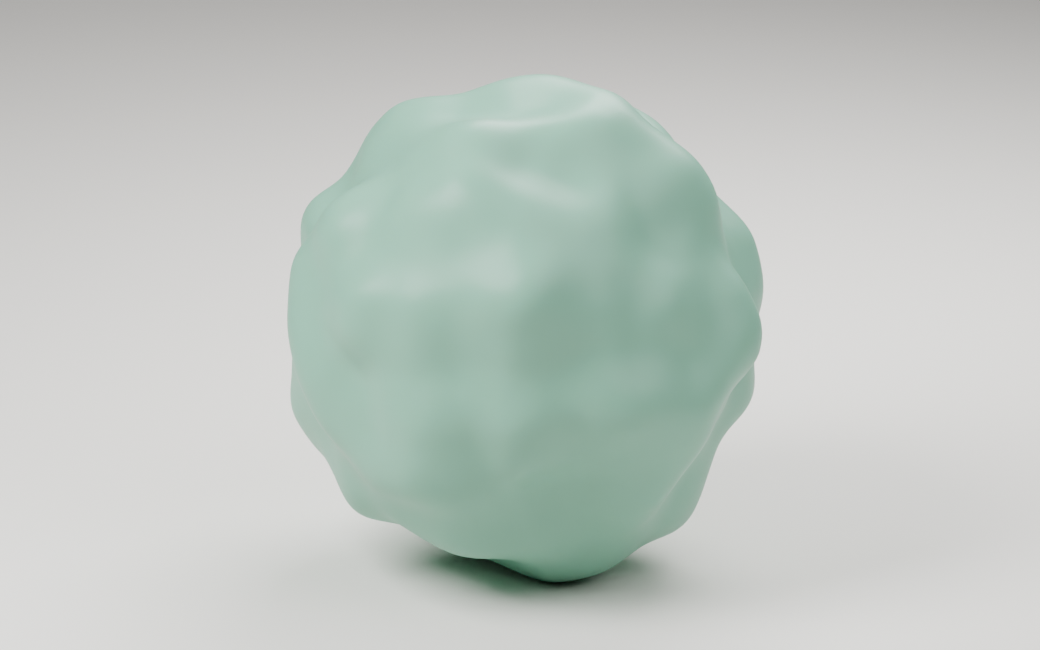
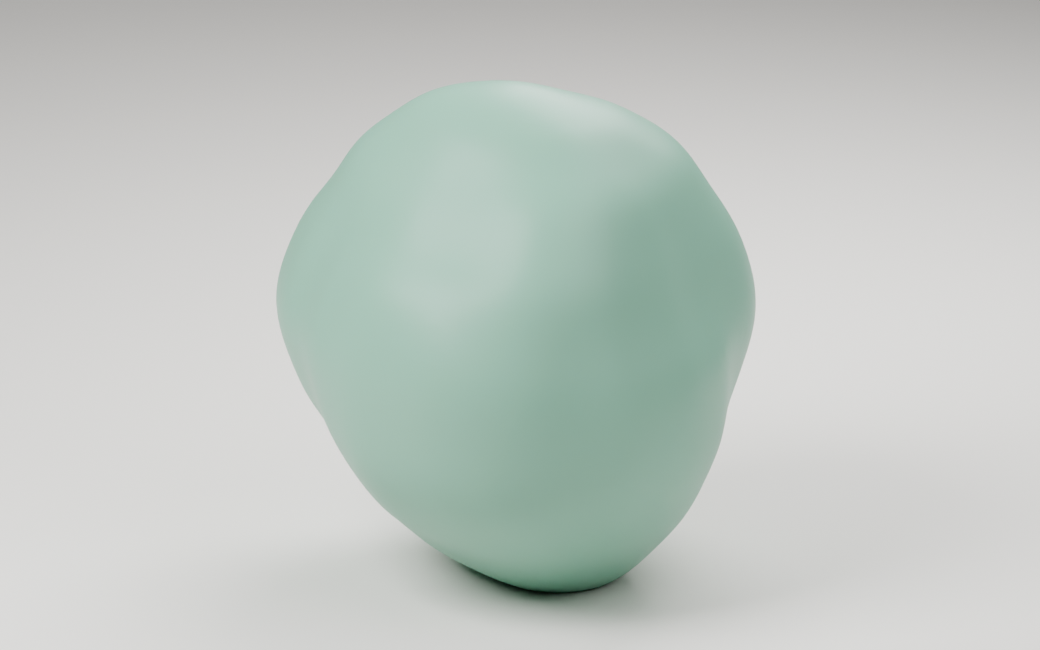
Show broad hand-formed pressure in the Bumpy Clay example

diff --git a/index.html b/index.html
@@ -8,7 +8,7 @@
 <h2>Adding or removing a part</h2><p>While editing the model, select an additional mesh and click <strong>Add Selected</strong>. Select an owned source and click <strong>Remove</strong> to detach it. To detach everything, use <strong>Restore Original Parts</strong> in Finish & Utilities.</p>
 <p>If Meld Selected Parts is gray, read the hint below it: the selection may already belong to a clay model, contain an eye, or be in Edit Mode. Use <strong>Edit Parts</strong> to change an existing model.</p><div class="next"><a href="#install">← Install & update</a><a href="#joins">Shape the joins →</a></div></article><article id="joins" hidden><span class="eyebrow">SHAPE & CHARACTER</span><h1>Join rules and Hold Shape</h1><figure><img src="assets/join-pressed.png" alt="A pressed haunch seam keeps two overlapping shapes readable." loading="lazy"><figcaption>A pressed haunch seam keeps two overlapping shapes readable.</figcaption></figure><h2>Edit one connection</h2><ol><li>Click <strong>Edit Parts</strong>.</li><li>Select one cage, then <kbd>Shift</kbd>-select the cage it touches.</li><li>Open <strong>Join Controls</strong> and click <strong>Edit Selected Join</strong>. These two selected parts determine the rule you edit.</li><li>Choose the style and adjust its settings. <strong>Hide Cages</strong> near the top clears your view; cages also pause automatically during crease edits and return after about 1.5 seconds.</li></ol><div class="table-scroll"><table><tr><th>Control</th><th>Use it for</th></tr><tr><td>Blended</td><td>A soft transition between overlapping parts.</td></tr><tr><td>Pressed</td><td>An indented seam, as though separate lumps were pressed together.</td></tr><tr><td>Crease strength</td><td>How pronounced the indentation is. Start small.</td></tr><tr><td>Crease width</td><td>How broadly the seam spreads around the contact.</td></tr><tr><td>Hold Shape</td><td>Preserve more of one part’s outline. This belongs to the part and can affect every contact involving it.</td></tr></table></div><h2>Different legs and head seams?</h2><p>Yes: select each pair and give it its own rule. A leg–body rule and head–body rule can have different settings. <strong>Hold Shape is shared by the part</strong>, and nearby seam influences can overlap on the same body. The controls do not create fully isolated patches of topology for each pair.</p>
 <h2>Copy a join you like</h2><ol><li>Edit the source join and click <strong>Copy Settings</strong>.</li><li>Select the destination pair and click <strong>Edit Selected Join</strong>.</li><li>Click <strong>Paste Settings</strong>.</li></ol><p>This transfers the join style and crease settings. Check the destination parts’ Hold Shape separately because it is a part setting.</p>
-<h2>Selection feels confusing?</h2><p>The selected pair and the highlighted list row can refer to different joins. <strong>Edit Selected Join</strong> follows your two selected cages. <strong>Edit Listed Join</strong> follows the highlighted rule. Removing a rule is not necessary to select another pair. Object identity, rather than the displayed name, identifies a part.</p><div class="next"><a href="#first-model">← Your first model</a><a href="#finishes">Clay finishes →</a></div></article><article id="finishes" hidden><span class="eyebrow">COLOR & SURFACE</span><h1>Material presets and finish controls</h1><p class="lead">Pick a preset under Clay Finish, then change its color, roughness and surface details. Presets are starting points, not locked looks.</p><div class="swatches"><figure><img src="assets/material-dough.png" alt="Soft Dough" loading="lazy"><figcaption>Soft Dough</figcaption></figure><figure><img src="assets/material-baked.png" alt="Smooth Baked" loading="lazy"><figcaption>Smooth Baked</figcaption></figure><figure><img src="assets/material-bumpy.png" alt="Bumpy Clay" loading="lazy"><figcaption>Bumpy Clay</figcaption></figure><figure><img src="assets/material-plasticine.png" alt="Plasticine" loading="lazy"><figcaption>Plasticine</figcaption></figure><figure><img src="assets/material-terracotta.png" alt="Terracotta" loading="lazy"><figcaption>Terracotta</figcaption></figure><figure><img src="assets/material-glazed.png" alt="Glazed Ceramic" loading="lazy"><figcaption>Glazed Ceramic</figcaption></figure><figure><img src="assets/material-translucent.png" alt="Translucent Clay" loading="lazy"><figcaption>Translucent Clay</figcaption></figure><figure><img src="assets/material-dirty.png" alt="Dirty Clay" loading="lazy"><figcaption>Dirty Clay</figcaption></figure><figure><img src="assets/material-cosmic.png" alt="Cosmic Clay" loading="lazy"><figcaption>Cosmic Clay</figcaption></figure><figure><img src="assets/material-bubblegum.png" alt="Bubble Gum" loading="lazy"><figcaption>Bubble Gum</figcaption></figure><figure><img src="assets/material-wet.png" alt="Wet Clay" loading="lazy"><figcaption>Wet Clay</figcaption></figure><figure><img src="assets/material-drought.png" alt="Dry Cracked Earth" loading="lazy"><figcaption>Dry Cracked Earth</figcaption></figure><figure><img src="assets/material-wax.png" alt="Candle Wax" loading="lazy"><figcaption>Candle Wax</figcaption></figure><figure><img src="assets/material-metal.png" alt="Metallic Clay" loading="lazy"><figcaption>Metallic Clay</figcaption></figure><figure><img src="assets/material-mixed.png" alt="Marbled Dough" loading="lazy"><figcaption>Marbled Dough</figcaption></figure><figure><img src="assets/material-iridescent.png" alt="Iridescent Clay" loading="lazy"><figcaption>Iridescent Clay</figcaption></figure><figure><img src="assets/material-truffle.png" alt="Chocolate Truffle" loading="lazy"><figcaption>Chocolate Truffle</figcaption></figure></div><div class="table-scroll"><table><tr><th>Control</th><th>What changes</th></tr><tr><td>Clay color / Second clay color</td><td>The two colors available to the finish.</td></tr><tr><td>Keep my colors</td><td>Keep your chosen colors when selecting another preset.</td></tr><tr><td>Color mixing / Color patch scale</td><td>Mix the two colors into larger or smaller patches.</td></tr><tr><td>Roughness</td><td>Lower values look shinier; higher values look more matte.</td></tr><tr><td>Color variation</td><td>Subtle uneven coloration within the clay.</td></tr><tr><td>Surface grain / Grain frequency</td><td>Strength and scale of the fine surface texture.</td></tr><tr><td>Mineral flecks</td><td>Small speckles in the finish.</td></tr><tr><td>Texture scale</td><td>Overall scale of the surface patterns.</td></tr><tr><td>Override material</td><td>Use your own Blender material instead of the generated clay shader.</td></tr></table></div><p>Open <strong>Wax, Glaze & Optical Finish</strong> for translucency, transmission, coat, metallic and iridescence controls. Lighting makes a large difference, especially for glossy, transparent and metallic finishes.</p><aside class="tip"><strong>Gray viewport?</strong> Choose Material Preview or Rendered shading. If a custom material override is assigned, the generated clay shader controls do not edit that custom material.</aside><p>The swatches above are actual Cycles renders. The Bumpy Clay sample is customized for smooth rounded dimples: Hand-shaped amount 10, scale 8, Surface grain and Finger impressions 0, and Roughness 0.43. Type the Hand-shaped amount to go above the normal slider range. Its editable Handmade shape Noise node uses Detail 0.35 and Roughness 0.25; these settings are saved in the Material Playground. Body and eye regions can use the same preset family. The included Material Playground lets you inspect and customize every finish.</p><div class="next"><a href="#joins">← Shape the joins</a><a href="#details">Prints, cracks & bites →</a></div></article><article id="details" hidden><span class="eyebrow">SURFACE CONTROLS</span><h1>Thumbprints, cracks and bite marks</h1><h2>Thumbprints</h2><figure><img src="assets/detail-thumbprints.png" alt="Open loops and arches with a soft pressure footprint." loading="lazy"><figcaption>Open loops and arches with a soft pressure footprint.</figcaption></figure><div class="table-scroll"><table><tr><th>Control</th><th>Try this</th></tr><tr><td>Finger impressions</td><td>Raise it gently to make the ridges more visible.</td></tr><tr><td>Thumbprint size</td><td>0.55 for small prints; 1 for default; 1.4 for larger prints. Centers stay in place.</td></tr><tr><td>Print density</td><td>Change how closely prints are spaced.</td></tr><tr><td>Thumbprint stretch</td><td>Change the length of each pressure patch.</td></tr><tr><td>Print irregularity</td><td>Bend the flow of the ridges.</td></tr></table></div><p>Thumbprints are shader relief, so their size does not remesh the body. If size is disabled on an older model, click <strong>Update Thumbprints</strong> first.</p>
+<h2>Selection feels confusing?</h2><p>The selected pair and the highlighted list row can refer to different joins. <strong>Edit Selected Join</strong> follows your two selected cages. <strong>Edit Listed Join</strong> follows the highlighted rule. Removing a rule is not necessary to select another pair. Object identity, rather than the displayed name, identifies a part.</p><div class="next"><a href="#first-model">← Your first model</a><a href="#finishes">Clay finishes →</a></div></article><article id="finishes" hidden><span class="eyebrow">COLOR & SURFACE</span><h1>Material presets and finish controls</h1><p class="lead">Pick a preset under Clay Finish, then change its color, roughness and surface details. Presets are starting points, not locked looks.</p><div class="swatches"><figure><img src="assets/material-dough.png" alt="Soft Dough" loading="lazy"><figcaption>Soft Dough</figcaption></figure><figure><img src="assets/material-baked.png" alt="Smooth Baked" loading="lazy"><figcaption>Smooth Baked</figcaption></figure><figure><img src="assets/material-bumpy.png" alt="Bumpy Clay" loading="lazy"><figcaption>Bumpy Clay</figcaption></figure><figure><img src="assets/material-plasticine.png" alt="Plasticine" loading="lazy"><figcaption>Plasticine</figcaption></figure><figure><img src="assets/material-terracotta.png" alt="Terracotta" loading="lazy"><figcaption>Terracotta</figcaption></figure><figure><img src="assets/material-glazed.png" alt="Glazed Ceramic" loading="lazy"><figcaption>Glazed Ceramic</figcaption></figure><figure><img src="assets/material-translucent.png" alt="Translucent Clay" loading="lazy"><figcaption>Translucent Clay</figcaption></figure><figure><img src="assets/material-dirty.png" alt="Dirty Clay" loading="lazy"><figcaption>Dirty Clay</figcaption></figure><figure><img src="assets/material-cosmic.png" alt="Cosmic Clay" loading="lazy"><figcaption>Cosmic Clay</figcaption></figure><figure><img src="assets/material-bubblegum.png" alt="Bubble Gum" loading="lazy"><figcaption>Bubble Gum</figcaption></figure><figure><img src="assets/material-wet.png" alt="Wet Clay" loading="lazy"><figcaption>Wet Clay</figcaption></figure><figure><img src="assets/material-drought.png" alt="Dry Cracked Earth" loading="lazy"><figcaption>Dry Cracked Earth</figcaption></figure><figure><img src="assets/material-wax.png" alt="Candle Wax" loading="lazy"><figcaption>Candle Wax</figcaption></figure><figure><img src="assets/material-metal.png" alt="Metallic Clay" loading="lazy"><figcaption>Metallic Clay</figcaption></figure><figure><img src="assets/material-mixed.png" alt="Marbled Dough" loading="lazy"><figcaption>Marbled Dough</figcaption></figure><figure><img src="assets/material-iridescent.png" alt="Iridescent Clay" loading="lazy"><figcaption>Iridescent Clay</figcaption></figure><figure><img src="assets/material-truffle.png" alt="Chocolate Truffle" loading="lazy"><figcaption>Chocolate Truffle</figcaption></figure></div><div class="table-scroll"><table><tr><th>Control</th><th>What changes</th></tr><tr><td>Clay color / Second clay color</td><td>The two colors available to the finish.</td></tr><tr><td>Keep my colors</td><td>Keep your chosen colors when selecting another preset.</td></tr><tr><td>Color mixing / Color patch scale</td><td>Mix the two colors into larger or smaller patches.</td></tr><tr><td>Roughness</td><td>Lower values look shinier; higher values look more matte.</td></tr><tr><td>Color variation</td><td>Subtle uneven coloration within the clay.</td></tr><tr><td>Surface grain / Grain frequency</td><td>Strength and scale of the fine surface texture.</td></tr><tr><td>Mineral flecks</td><td>Small speckles in the finish.</td></tr><tr><td>Texture scale</td><td>Overall scale of the surface patterns.</td></tr><tr><td>Override material</td><td>Use your own Blender material instead of the generated clay shader.</td></tr></table></div><p>Open <strong>Wax, Glaze & Optical Finish</strong> for translucency, transmission, coat, metallic and iridescence controls. Lighting makes a large difference, especially for glossy, transparent and metallic finishes.</p><aside class="tip"><strong>Gray viewport?</strong> Choose Material Preview or Rendered shading. If a custom material override is assigned, the generated clay shader controls do not edit that custom material.</aside><p>The swatches above are actual Cycles renders. The Bumpy Clay sample is customized for broad, flowing pressure depressions: Hand-shaped amount 12, scale 3.6, Surface grain and Finger impressions 0, and Roughness 0.43. Type the Hand-shaped amount to go above the normal slider range. Its editable Handmade shape Noise node uses Detail 0 and Roughness 0, removing smaller noise octaves; these settings are saved in the Material Playground. Body and eye regions can use the same preset family. The included Material Playground lets you inspect and customize every finish.</p><div class="next"><a href="#joins">← Shape the joins</a><a href="#details">Prints, cracks & bites →</a></div></article><article id="details" hidden><span class="eyebrow">SURFACE CONTROLS</span><h1>Thumbprints, cracks and bite marks</h1><h2>Thumbprints</h2><figure><img src="assets/detail-thumbprints.png" alt="Open loops and arches with a soft pressure footprint." loading="lazy"><figcaption>Open loops and arches with a soft pressure footprint.</figcaption></figure><div class="table-scroll"><table><tr><th>Control</th><th>Try this</th></tr><tr><td>Finger impressions</td><td>Raise it gently to make the ridges more visible.</td></tr><tr><td>Thumbprint size</td><td>0.55 for small prints; 1 for default; 1.4 for larger prints. Centers stay in place.</td></tr><tr><td>Print density</td><td>Change how closely prints are spaced.</td></tr><tr><td>Thumbprint stretch</td><td>Change the length of each pressure patch.</td></tr><tr><td>Print irregularity</td><td>Bend the flow of the ridges.</td></tr></table></div><p>Thumbprints are shader relief, so their size does not remesh the body. If size is disabled on an older model, click <strong>Update Thumbprints</strong> first.</p>
 <h2>Soft Dough cracks</h2><figure><img src="assets/detail-dough-cracks.png" alt="Curved surface splits with rounded shoulders feeding into a tight center." loading="lazy"><figcaption>Curved surface splits with rounded shoulders feeding into a tight center.</figcaption></figure><div class="table-scroll"><table><tr><th>Control</th><th>What it does</th></tr><tr><td>Crack style</td><td>Soft Dough gives curved splits; Dry Fractures gives cellular dried-earth cracks.</td></tr><tr><td>Crack displacement</td><td>Actual recessed depth in the mesh. Zero turns the geometry displacement off.</td></tr><tr><td>Crack width</td><td>Width of the outer shoulders. Wide dough splits fold toward a tighter center.</td></tr><tr><td>Crack detail</td><td>How much the paths bend and wander.</td></tr><tr><td>Crack scale</td><td>How frequently paths repeat over the surface.</td></tr><tr><td>Crack coverage</td><td>How much of the pattern appears. High values can connect into loops.</td></tr><tr><td>Fine fissures</td><td>Additional shader relief; separate from real crack depth.</td></tr><tr><td>Crack seed + circular-arrow button</td><td>Try another crack layout without changing body proportions or thumbprints.</td></tr><tr><td>Crack quality</td><td>Base mesh, Standard or Close-up. See below for the tradeoff.</td></tr></table></div><h2>A jagged inside cavity?</h2><p>First click <strong>Update Dough Cracks</strong> if the button appears. Set <strong>Crack quality → Close-up</strong> for deep or narrow splits, then click <strong>Full Quality Now</strong> under Shape & Melding. Standard adds one surface subdivision after melding; Close-up adds two. They let the crack curve be sampled by more faces.</p><figure><img src="assets/cavity-close-up.png" alt="Close-up sampling on a deep glossy cavity. The included Crack Quality Study lets you compare all three quality levels." loading="lazy"><figcaption>Close-up sampling on a deep glossy cavity. The included Crack Quality Study lets you compare all three quality levels.</figcaption></figure><aside class="tip"><strong>Quality has a geometry cost.</strong> Standard creates about 4× the base face count; Close-up about 16×. Only active Soft Dough displacement uses this refinement. Reduced adaptive previews use base sampling. Very low model resolution or extreme depth may still need a higher Resolution or a gentler crack.</aside><h2>Playful bite marks</h2><figure><img src="assets/detail-bite-marks.png" alt="Optional recessed tooth impressions on Bubble Gum." loading="lazy"><figcaption>Optional recessed tooth impressions on Bubble Gum.</figcaption></figure><p>Open <strong>Bite Marks</strong> and enable them. Size sets the arch size; Depth sets the indentation; Coverage controls how many stamps appear. Variation changes whole-arch pressure and size. Bite seed moves only the bites. These are stylized tooth impressions, not a removed mouthful. Tight corners and thin parts can show incomplete contacts; try another seed, less depth or more surface resolution.</p>
 <p>Cracks and bites become part of <strong>Bake Mesh Copy</strong>. Fingerprints, grain and color patterns remain shader effects; they do not become sculpted vertices automatically.</p><div class="next"><a href="#finishes">← Clay finishes</a><a href="#eyes">Add clay eyes →</a></div></article><article id="eyes" hidden><span class="eyebrow">EYE CONTROLS</span><h1>Create, place and customize clay eyes</h1><div class="eye-grid"><figure><img src="assets/eye-round.png" alt="Round" loading="lazy"><figcaption>Round</figcaption></figure><figure><img src="assets/eye-cat.png" alt="Cat" loading="lazy"><figcaption>Cat</figcaption></figure><figure><img src="assets/eye-heart.png" alt="Heart" loading="lazy"><figcaption>Heart</figcaption></figure><figure><img src="assets/eye-star.png" alt="Star" loading="lazy"><figcaption>Star</figcaption></figure><figure><img src="assets/eye-cross.png" alt="Cross" loading="lazy"><figcaption>Cross</figcaption></figure><figure><img src="assets/eye-diamond.png" alt="Diamond" loading="lazy"><figcaption>Diamond</figcaption></figure></div><h2>Add and place an eye</h2><ol><li>Open <strong>Clay Eyes</strong>, choose a pupil shape, and click <strong>Place Eye on Surface</strong>.</li><li>Click the clay where the eye belongs. To move an existing eye, select it and click <strong>Reposition Selected Eye</strong>. Cancel with <kbd>Esc</kbd>.</li><li>Adjust Eye diameter, White bulge and Sink into surface until it sits comfortably.</li><li>Add a second eye. Adjust pupil size, rotation and look direction to give the character an expression.</li></ol>
 <h2>Use clay presets on the pupil or white</h2><p>Select the eye. In Clay Eyes, set the finish for its <strong>white, iris and pupil</strong> independently. Try a waxy white with a glossy Bubble Gum heart, or a matte white and Cosmic Clay pupil. Colors are also independent. The iris is optional.</p>
